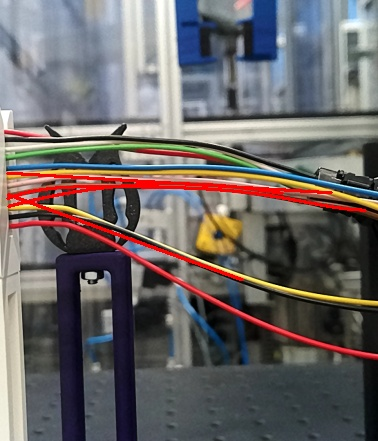
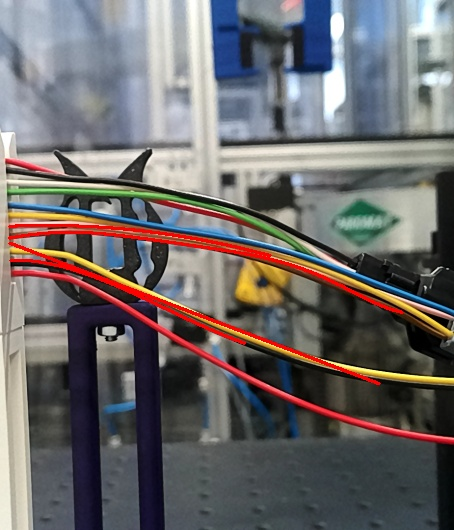
multiple_cameras

diff --git a/src/multiple_cameras.py b/src/multiple_cameras.py
@@ -94,10 +94,13 @@ with contextlib.ExitStack() as stack:
 
         if (str(mxId) == "184430107197470E00"): #Global
             camID=0
-        elif (str(mxId) == "14442C1061EC47D700"): #Cables
+            print("CAM0")
+        elif (str(mxId) == "18443010418A4C0E00"): #WH1
             camID=1
-        elif (str(mxId) == "18443010418A4C0E00"): #WH2
+            print("CAM1")
+        elif (str(mxId) == "14442C1061EC47D700"): #WH2
             camID=2
+            print("CAM2")
         else:
             print(str(mxId))
             print("ERROR")
@@ -234,7 +237,8 @@ with contextlib.ExitStack() as stack:
                     msg.header.stamp = rospy.Time.now()
                     msg.format = "jpeg"
                     if stream_name_i == "cam-1":
-                        msg.data = np.array(cv2.imencode('.jpg', cv2.flip(videoIn.getCvFrame(), -1))[1]).tostring()
+                        #msg.data = np.array(cv2.imencode('.jpg', cv2.flip(videoIn.getCvFrame(), -1))[1]).tostring()
+                        msg.data = np.array(cv2.imencode('.jpg', videoIn.getCvFrame())[1]).tostring() 
                         image_pub1.publish(msg) #WH1
                     elif stream_name_i == "cam-2":
                         msg.data = np.array(cv2.imencode('.jpg', cv2.flip(videoIn.getCvFrame(), -1))[1]).tostring()
